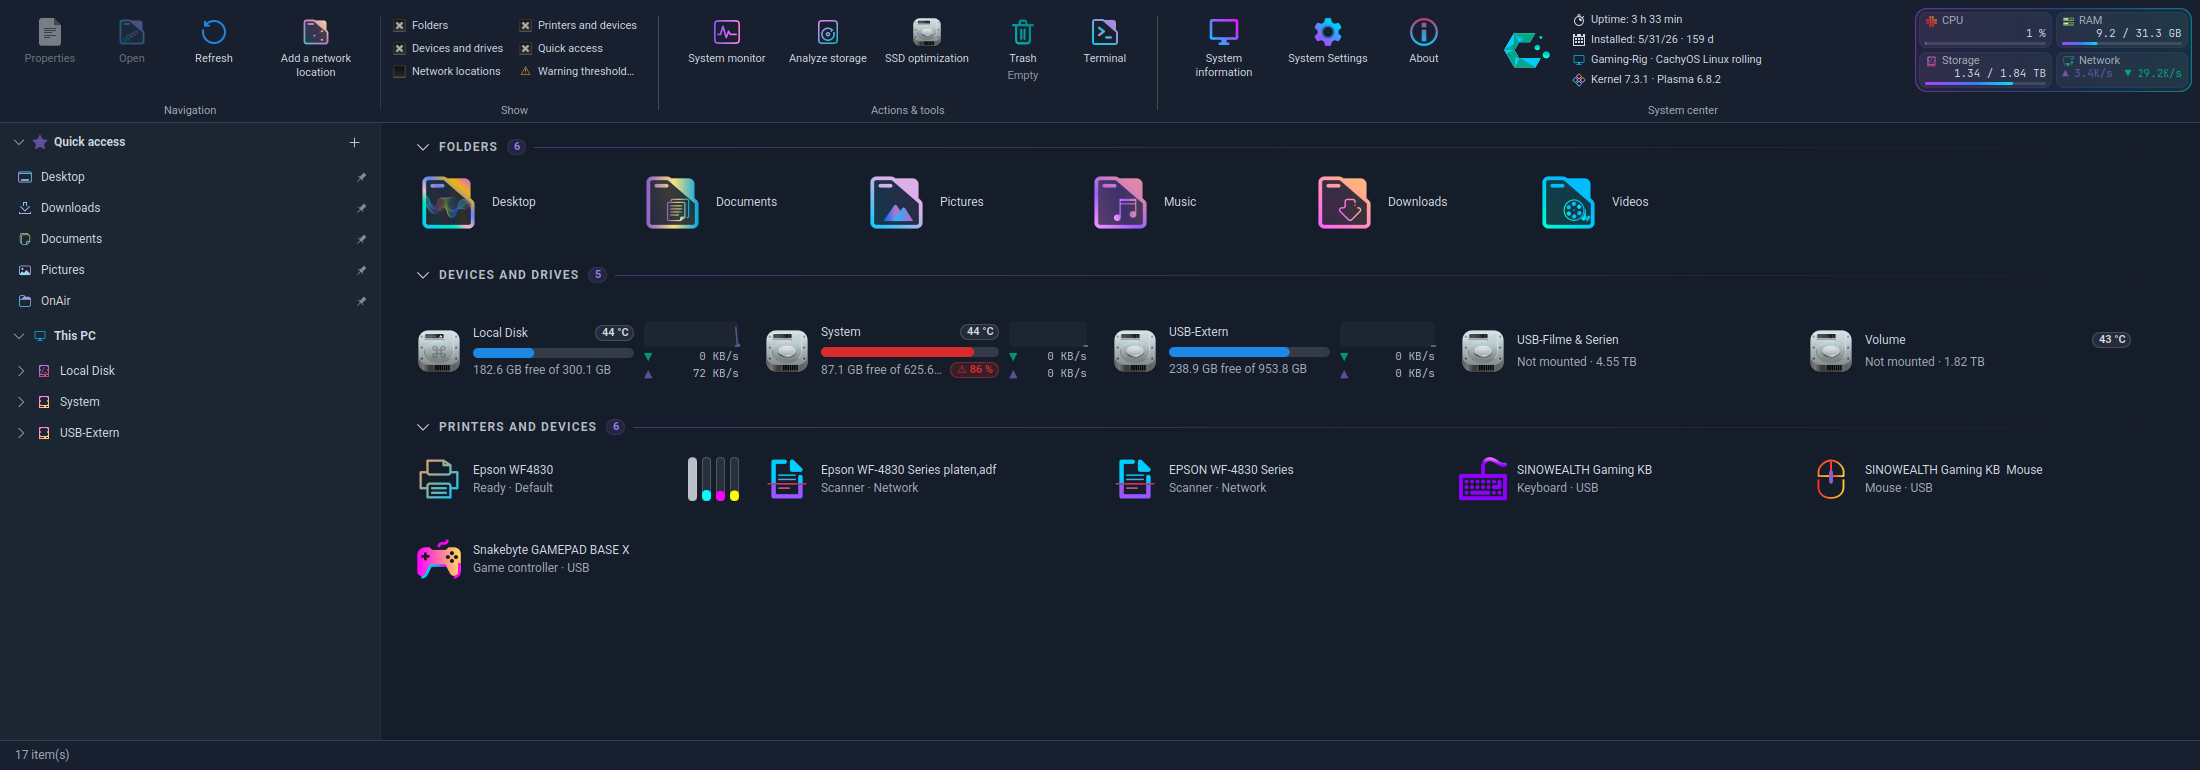
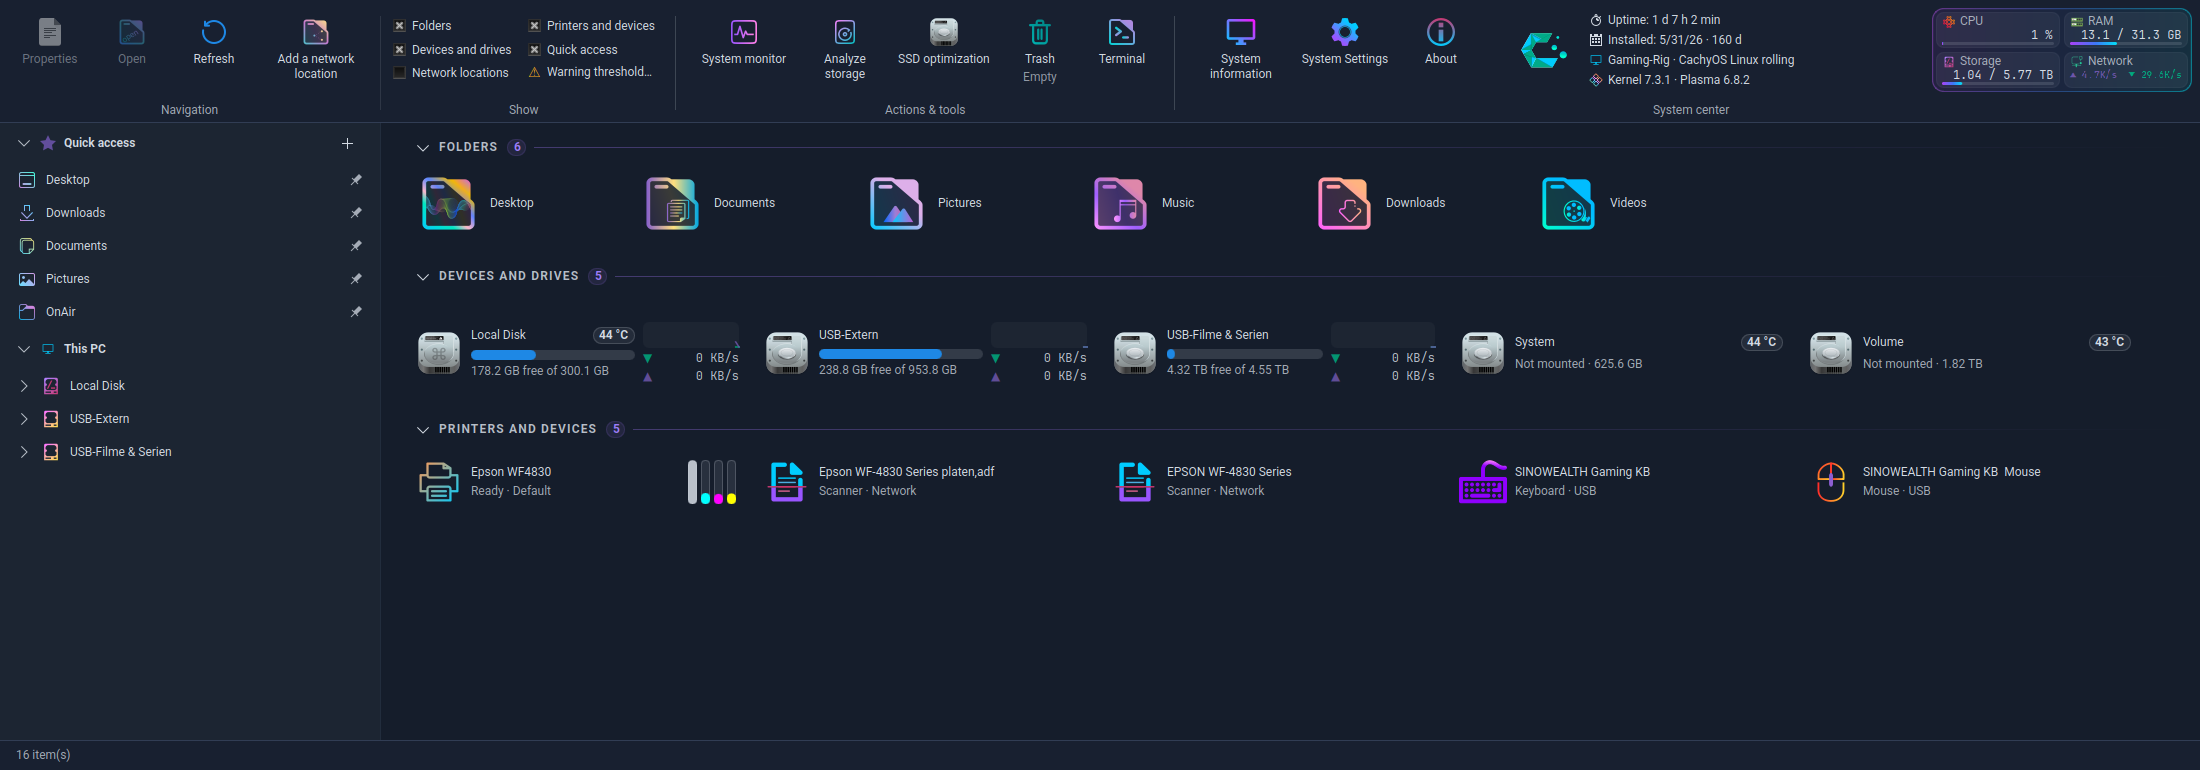
Release 2.0.0-beta.8.5: UI polish, new preview

diff --git a/drivedeck.py b/drivedeck.py
@@ -7777,7 +7777,7 @@ QQC2.ApplicationWindow {
 """
 
 
-APP_VERSION = '2.0.0-beta.8.4'
+APP_VERSION = '2.0.0-beta.8.5'
 APP_AUTEUR = """Original Copyright (C) 2026 naykkalak
 Modified and maintained by Christian (2026), with help from his son Leon"""
 APP_LICENCE = 'GPL-3.0-or-later'

diff --git a/README.md b/README.md
@@ -12,7 +12,7 @@ locations, printers and devices in one clean window, and it follows your Plasma 
 
 <p align="center"><img src="preview.png" alt="DriveDeck main window"></p>
 
-**Version 2.0.0-beta.8.4** – feedback and bug reports are very welcome.
+**Version 2.0.0-beta.8.5** – feedback and bug reports are very welcome.
 
 ---
 

diff --git a/CHANGELOG.md b/CHANGELOG.md
@@ -10,7 +10,7 @@ hidden and everything else works).
 
 ---
 
-## Unreleased
+## 2.0.0-beta.8.5 – 2026-11-08 (UI polish)
 
 ### Changed
 
